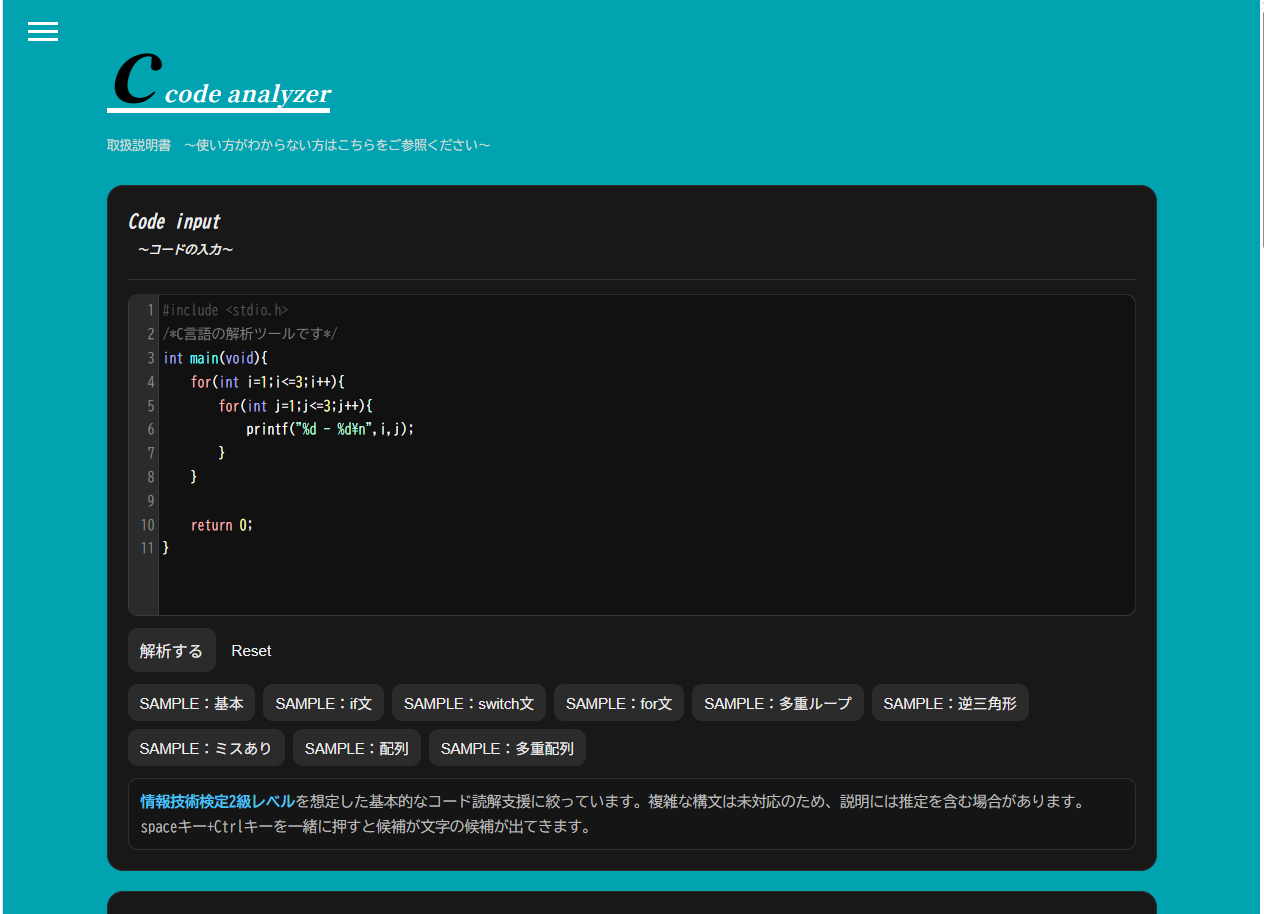
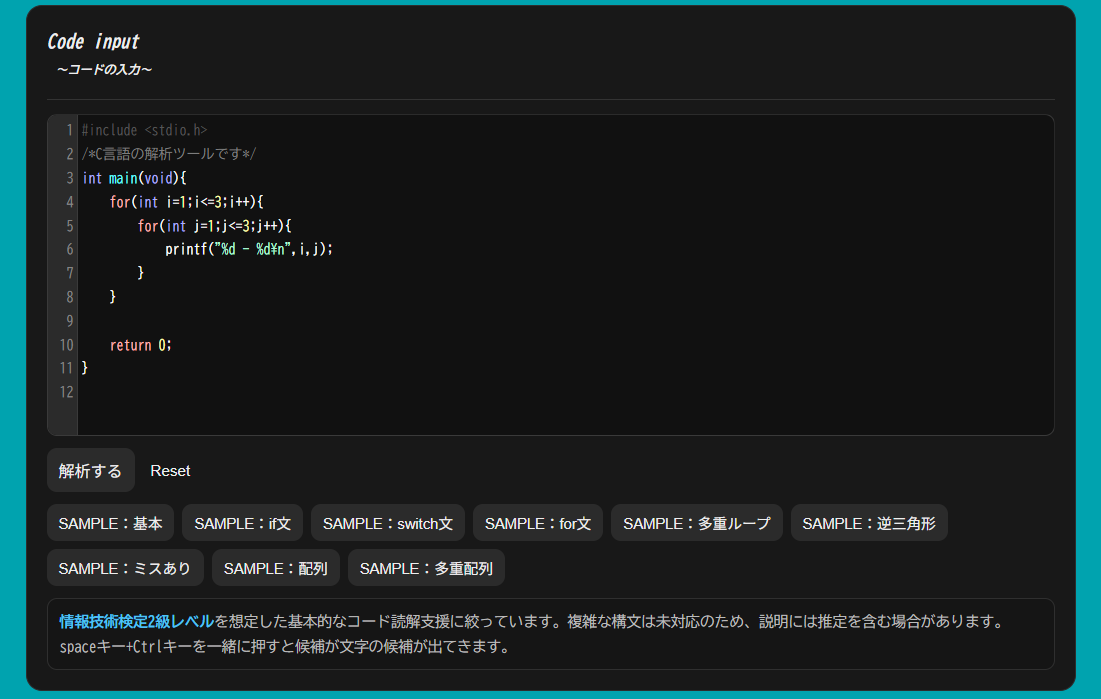
use

diff --git a/styles.css b/styles.css
@@ -744,6 +744,51 @@ iframe {
   border-bottom: 11px solid transparent;
   border-right: 16px solid #ffffff;
 }
+/* サンプル紹介を目立たせるボックス */
+.sample-guide-box {
+  background-color: #161819; /* 元のページの黒い枠と同じ背景色 */
+  border: 2px solid #00e5ff; /* 浅葱色の背景に映える明るい枠線 */
+  border-radius: 12px;
+  padding: 24px 28px;
+  margin-top: 35px;
+  box-shadow: 0 6px 16px rgba(0, 0, 0, 0.35);
+  color: #ffffff;
+}
+
+/* ボックス内の見出し */
+.sample-guide-title {
+  color: #4dd0e1;
+  font-size: 1.3rem;
+  margin-top: 0;
+  margin-bottom: 12px;
+  border-bottom: 1px solid #333;
+  padding-bottom: 8px;
+}
+
+.sample-guide-box p {
+  line-height: 1.8;
+  margin: 0;
+  font-size: 1rem;
+}
+
+/* 文中の「SAMPLE：〇〇」をボタン風バッジにする装飾 */
+.badge-sample {
+  display: inline-block;
+  background-color: #2c2f33;
+  border: 1px solid #555;
+  border-radius: 20px;
+  padding: 2px 10px;
+  font-size: 0.9rem;
+  margin: 2px 2px;
+  color: #fff;
+}
+
+/* 下部のキャラクター配置の余白調整 */
+.bottom-chara {
+  margin-top: 25px;
+  margin-bottom: 30px;
+  justify-content: center; /* 中央寄せにしたい場合（左寄せのままならこの行を削除） */
+}
 /* --- スマホ対応（画面幅768px以下のとき） --- */
 @media screen and (max-width: 768px) {
   /* タイトル文字サイズスマホ向けに小さくする */

diff --git a/uses/use.html b/uses/use.html
@@ -26,7 +26,7 @@
           <ul>
             <li><a href="../analyzer.html">C CODE ANALYZER</a></li>
             <li><a href="use.html">使い方</a></li>
-            <li><a href="../character.html">キャラクター</a></li>
+            
             <li><a href="../form.html">ご意見・不具合報告</a></li>
           </ul>
         </nav>
